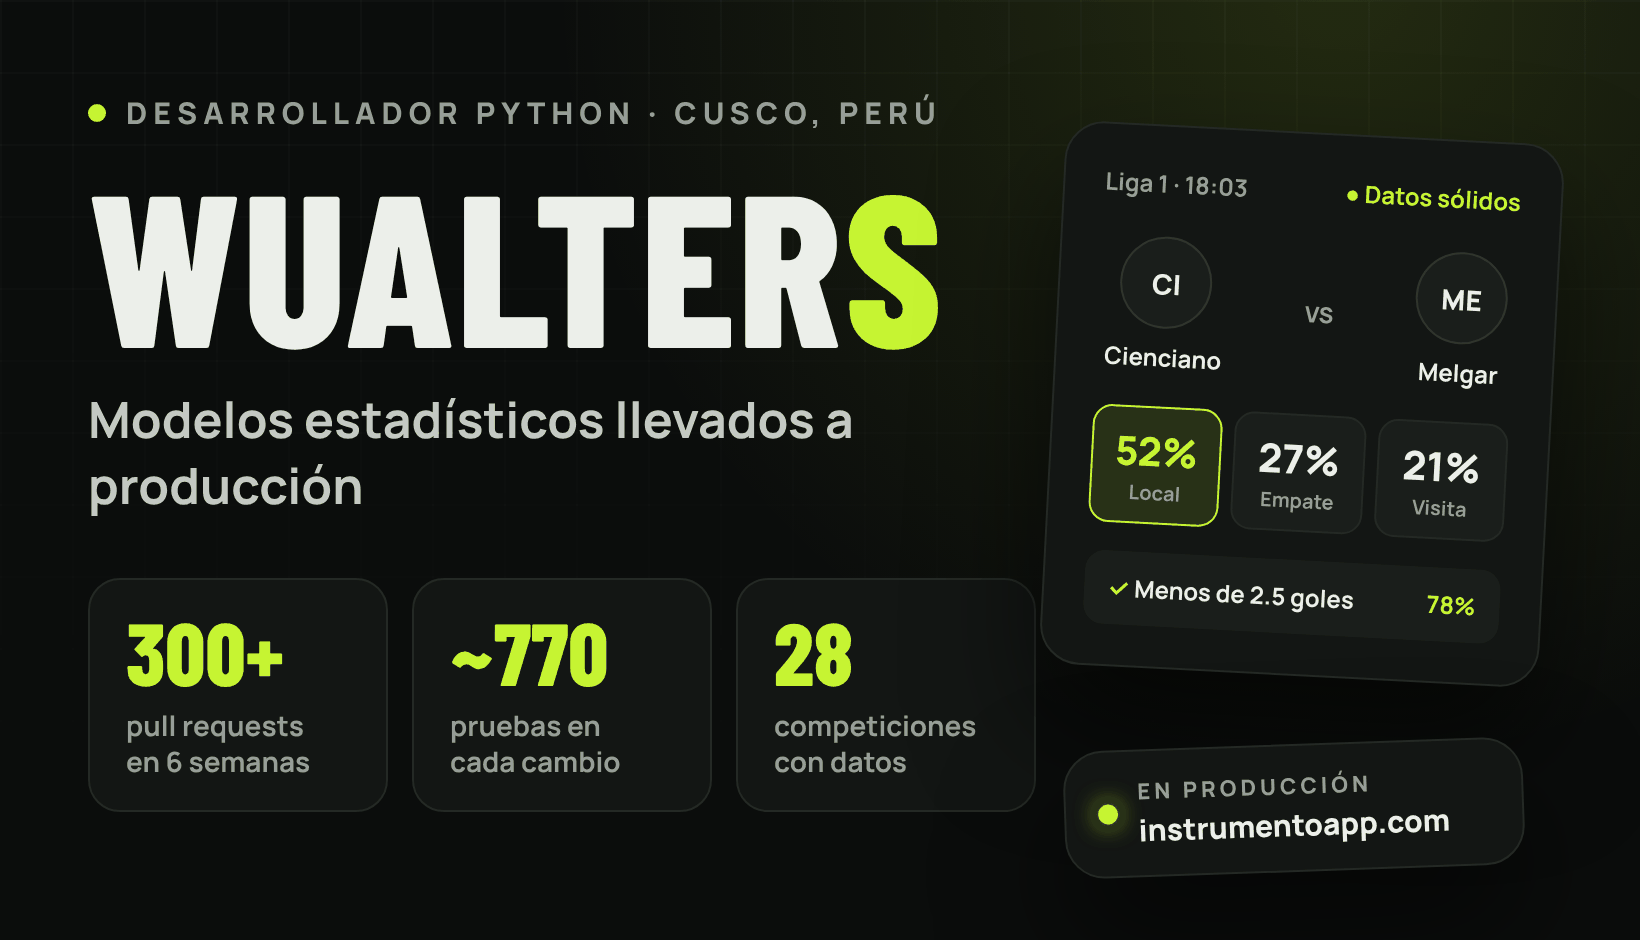
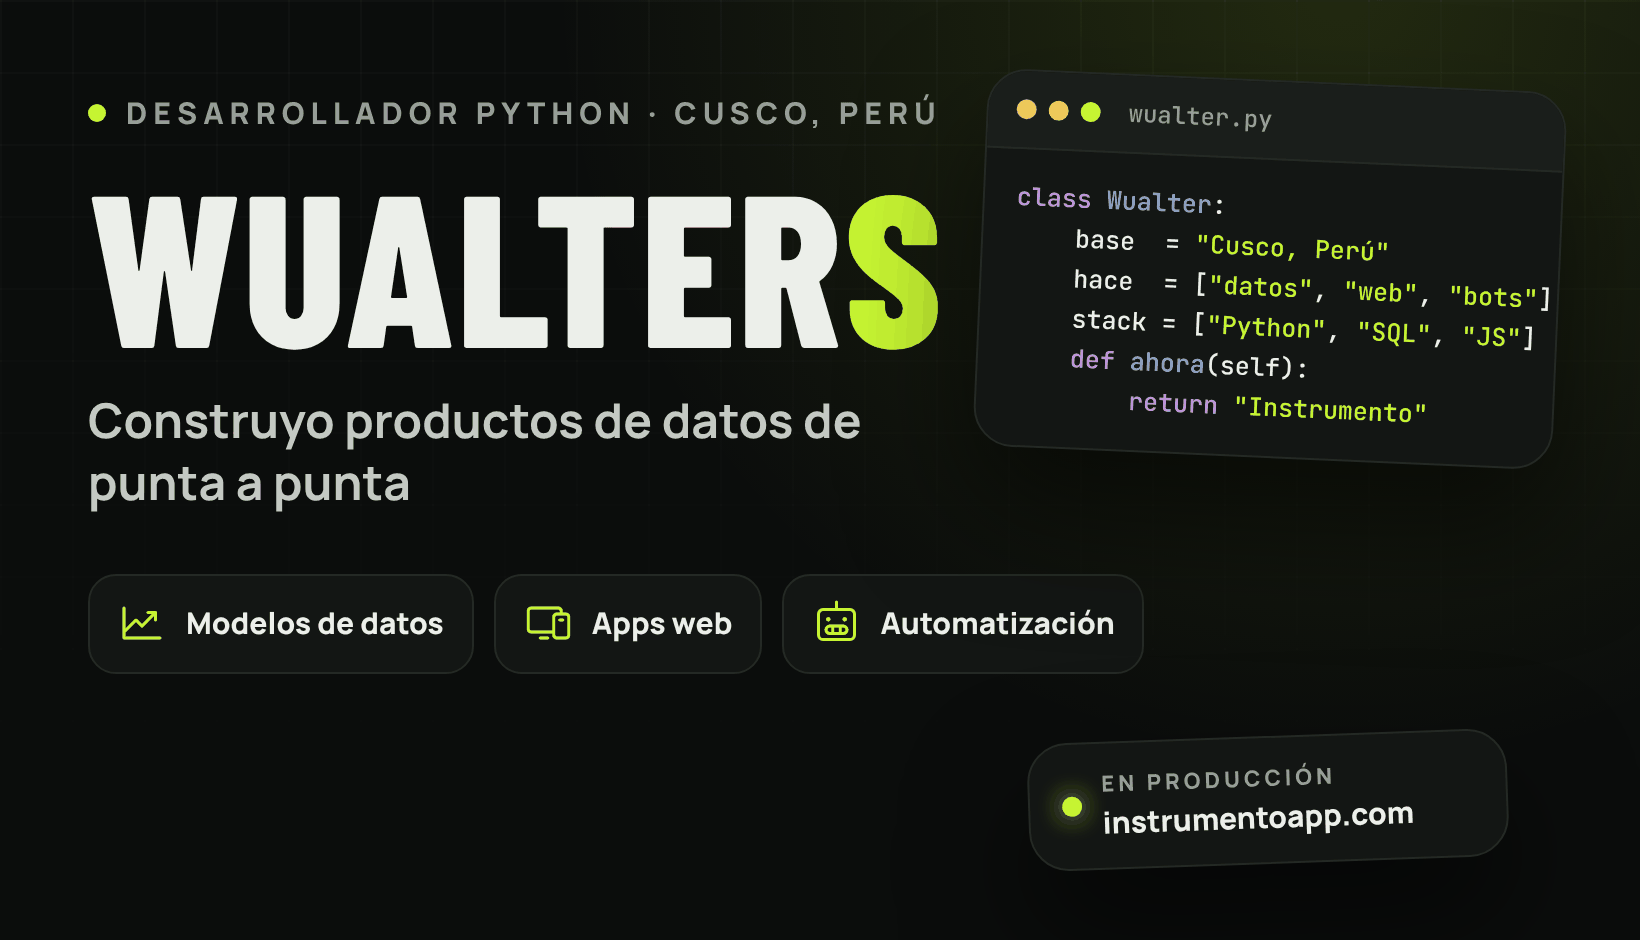
Perfil centrado en WualterS, no solo en Instrumento
Con 6 de 8 tarjetas sobre la app, el perfil parecía el de Instrumento.
Ahora la portada habla de quién es y qué hace (modelos de datos, apps
web y automatización), los proyectos van en tarjetas del mismo tamaño
para sumar los que vengan, el detalle de Instrumento queda en
desplegables y los retos técnicos pasan a «Lo que sé resolver», con
habilidades de los dos proyectos.

Claude-Session: https://claude.ai/code/session_01LgRPHN13sL2dVtw1KBWnaM

diff --git a/img/generar.py b/img/generar.py
@@ -6,14 +6,14 @@ importante y títulos en Barlow Condensed.
 Las tarjetas con texto se diseñan a 820 px de ancho y se guardan al doble: en
 un celular se ven a ~45% y la letra sigue legible.
 
-  img/banner.png      encabezado con los números de Instrumento
+  img/banner.png      encabezado: quién soy y qué hago
   img/hero.jpg        Instrumento en PC y en el celular
   img/funciones.png   qué hace la app (6 tarjetas)
-  img/retos.png       retos técnicos resueltos (problema → solución)
+  img/proyectos.png   mis proyectos (Instrumento y Umapyoi)
+  img/habilidades.png lo que sé resolver, cada habilidad con su prueba
   img/flujo.png       cómo funciona por dentro (línea de pasos)
   img/pantallas.jpg   seis pantallas de la app (3 x 2)
   img/stack.png       tecnologías con sus logos
-  img/umapyoi.png     tarjeta de Umapyoi AutoReroll
   img/btn-*.png       botones
 
 Recursos en img/recursos/: íconos Phosphor (MIT) y logos de Simple Icons (CC0).
@@ -103,40 +103,39 @@ def _pagina(contenido):
     return f'<div class=marco><div class=glow></div><div class=grid></div><div style="position:relative">{contenido}</div></div>'
 
 
+AREAS = [("chart-line-up", "Modelos de datos"), ("devices", "Apps web"), ("robot", "Automatización")]
+
+
 def banner_html():
-    stats = [("300+", "pull requests<br>en 6 semanas"), ("~770", "pruebas en<br>cada cambio"), ("28", "competiciones<br>con datos")]
-    barras = [("52%", "Local", True), ("27%", "Empate", False), ("21%", "Visita", False)]
+    areas = "".join(f'<div class=card style="padding:12px 14px;border-radius:14px;display:flex;align-items:center;gap:10px">'
+                    f'<i class="ph ph-{i}" style="font-size:24px;color:var(--hi)"></i>'
+                    f'<span style="font-size:15px;font-weight:800">{t}</span></div>' for i, t in AREAS)
+    k, s, f, c = ("color:#C792EA", "color:#C6F432", "color:#82AAFF", "color:#6B736C")
+    codigo = f"""<span style="{k}">class</span> <span style="{f}">Wualter</span>:
+    base  = <span style="{s}">"Cusco, Perú"</span>
+    hace  = [<span style="{s}">"datos"</span>, <span style="{s}">"web"</span>, <span style="{s}">"bots"</span>]
+    stack = [<span style="{s}">"Python"</span>, <span style="{s}">"SQL"</span>, <span style="{s}">"JS"</span>]
+    <span style="{k}">def</span> <span style="{f}">ahora</span>(self):
+        <span style="{k}">return</span> <span style="{s}">"Instrumento"</span>"""
     return f"""<div class=marco style="padding:46px 44px 44px;height:470px">
 <div class=glow style="right:-300px;top:-460px"></div><div class=grid></div>
 <div style="position:relative">
   <div class=kicker><i class=punto></i>DESARROLLADOR PYTHON · CUSCO, PERÚ</div>
   <div class=d style="font-size:108px;font-weight:800;letter-spacing:1px;line-height:.9;margin-top:16px">Wualter<span style="color:var(--hi)">S</span></div>
-  <div style="font-size:25px;font-weight:700;color:var(--tx2);margin-top:14px;max-width:470px;line-height:1.3">
-    Modelos estadísticos llevados a producción</div>
-  <div style="display:flex;gap:12px;margin-top:30px">
-    {"".join(f'<div class=card style="padding:14px 18px;border-radius:16px;min-width:150px"><div class=d style="font-size:44px;font-weight:800;line-height:1;color:var(--hi)">{n}</div><div style="font-size:14px;font-weight:700;color:var(--mut);margin-top:6px;line-height:1.3">{t}</div></div>' for n, t in stats)}
-  </div>
+  <div style="font-size:24px;font-weight:700;color:var(--tx2);margin-top:14px;max-width:440px;line-height:1.3">
+    Construyo productos de datos de punta a punta</div>
+  <div style="display:flex;gap:10px;margin-top:30px">{areas}</div>
 </div>
-<div class=card style="position:absolute;right:44px;top:66px;width:250px;padding:20px;transform:rotate(3deg);
+<div class=card style="position:absolute;right:40px;top:40px;width:290px;transform:rotate(2.5deg);overflow:hidden;
      box-shadow:0 30px 60px rgba(0,0,0,.55)">
-  <div style="display:flex;justify-content:space-between;font-size:12px;font-weight:700;color:var(--mut)">
-    <span>Liga 1 · 18:03</span><span style="color:var(--hi)">● Datos sólidos</span></div>
-  <div style="display:flex;justify-content:space-between;align-items:center;margin:18px 4px 16px">
-    <div style="text-align:center"><div style="width:46px;height:46px;border-radius:50%;background:var(--soft);
-      border:1.5px solid var(--line2);display:grid;place-items:center;font-weight:800;font-size:14px;margin:auto">CI</div>
-      <div style="font-size:12px;font-weight:700;margin-top:6px">Cienciano</div></div>
-    <div style="font-size:11px;font-weight:800;color:var(--mut)">VS</div>
-    <div style="text-align:center"><div style="width:46px;height:46px;border-radius:50%;background:var(--soft);
-      border:1.5px solid var(--line2);display:grid;place-items:center;font-weight:800;font-size:14px;margin:auto">ME</div>
-      <div style="font-size:12px;font-weight:700;margin-top:6px">Melgar</div></div>
-  </div>
-  <div style="display:grid;grid-template-columns:repeat(3,1fr);gap:6px">
-    {"".join(f'<div style="border-radius:10px;padding:8px 0;text-align:center;border:1.5px solid {"var(--hi)" if on else "var(--line)"};background:{"rgba(198,244,50,.12)" if on else "var(--soft)"}"><div style="font-size:20px;font-weight:800;color:{"var(--hi)" if on else "var(--tx)"}">{p}</div><div style="font-size:10px;font-weight:700;color:var(--mut)">{t}</div></div>' for p, t, on in barras)}
-  </div>
-  <div style="margin-top:14px;padding:10px 12px;border-radius:10px;background:var(--soft);font-size:12px;font-weight:700">
-    <span style="color:var(--hi)">✓</span> Menos de 2.5 goles <span style="float:right;color:var(--hi)">78%</span></div>
+  <div style="display:flex;align-items:center;gap:6px;padding:11px 14px;border-bottom:1.5px solid var(--line);background:var(--soft)">
+    <i style="width:10px;height:10px;border-radius:50%;background:#FF8076"></i>
+    <i style="width:10px;height:10px;border-radius:50%;background:#F2C94C"></i>
+    <i style="width:10px;height:10px;border-radius:50%;background:var(--hi)"></i>
+    <span style="font-family:Mono;font-size:12px;color:var(--mut);margin-left:8px">wualter.py</span></div>
+  <pre style="font-family:Mono;font-size:12.5px;line-height:1.6;padding:14px 16px;color:var(--tx);white-space:pre">{codigo}</pre>
 </div>
-<div class=card style="position:absolute;right:58px;top:372px;width:230px;padding:12px 16px;transform:rotate(-2deg);
+<div class=card style="position:absolute;right:66px;top:368px;width:240px;padding:12px 16px;transform:rotate(-2deg);
      box-shadow:0 30px 60px rgba(0,0,0,.55);display:flex;align-items:center;gap:10px">
   <i style="flex:none;width:10px;height:10px;border-radius:50%;background:var(--hi);box-shadow:0 0 12px var(--hi)"></i>
   <div><div style="font-size:11px;font-weight:800;letter-spacing:2px;color:var(--mut)">EN PRODUCCIÓN</div>
@@ -166,37 +165,32 @@ def funciones_html():
 <div style="display:grid;grid-template-columns:1fr 1fr;gap:14px;margin-top:26px">{tarjetas}</div>""")
 
 
-RETOS = [
-    ("Un servidor que se caía sin avisar",
-     "Reentrenar dentro del proceso web pasaba los 512 MB del servidor y la instancia moría sin error ni log.",
-     "Las tareas pesadas corren en un proceso hijo: al terminar, el sistema operativo recupera toda su memoria."),
-    ("Mercados que nunca se contradicen",
-     "«Gana Nice» y «Strasbourg o empate» llegaron a mostrarse a la vez: cada mercado se calculaba por su lado.",
-     "Todos salen de una sola matriz de marcadores, y cada ajuste reparte la matriz entera."),
-    ("Push sin dependencias frágiles",
-     "La librería habitual de Web Push no compilaba en todos los entornos.",
-     "Cifrado RFC 8291 y firma VAPID (RFC 8292) implementados a mano con cryptography."),
-    ("Un historial que no se puede maquillar",
-     "Recalcular partidos jugados con el modelo de hoy inflaría los aciertos: ya vio el resultado.",
-     "Cada pick se guarda antes del partido y no se toca más. Sin % hasta tener 20 picks."),
-    ("Un modelo que se mejora sin romperse",
-     "Cambiar el modelo a ojo puede empeorarlo sin que nadie lo note.",
-     "Cada semana los ajustes compiten en walk-forward con el modelo en uso; solo entra el que gana claro."),
+# ícono, habilidad, prueba concreta, proyecto
+HABILIDADES = [
+    ("chart-line-up", "Modelos estadísticos", "Dixon-Coles y Binomial Negativa. Todos los mercados salen de una sola matriz de marcadores, así nunca se contradicen.", "Instrumento"),
+    ("shield-check", "Validación honesta", "Backtest walk-forward: un ajuste entra solo si gana. Cada pick se guarda antes del partido y no se toca más.", "Instrumento"),
+    ("cpu", "Servidores estables", "Las tareas pesadas corren en un proceso hijo para no pasar el límite de memoria; el sistema la recupera entera.", "Instrumento"),
+    ("lock-key", "Criptografía aplicada", "Cifrado de Web Push (RFC 8291) y firma VAPID (RFC 8292) implementados a mano con cryptography.", "Instrumento"),
+    ("eye", "Visión por computadora", "OpenCV y Tesseract leen la pantalla del juego y detectan las cartas SSR objetivo.", "Umapyoi"),
+    ("heartbeat", "Automatización vigilada", "Tareas de fondo diarias que reportan su latido y avisan por Telegram si una se cae.", "Instrumento"),
 ]
 
 
-def retos_html():
-    filas = "".join(f"""<div class=card style="padding:24px 24px 22px;display:flex;gap:20px">
-  <div class=d style="font-size:54px;font-weight:800;color:var(--hi);line-height:.9;width:62px;flex:none">{n:02d}</div>
-  <div><div style="font-size:25px;font-weight:800">{t}</div>
-    <div style="display:flex;gap:12px;margin-top:12px;font-size:18px;line-height:1.45;color:var(--tx2)">
-      <span style="flex:none;font-size:12px;font-weight:800;letter-spacing:1.5px;color:var(--neg);padding-top:4px;width:84px">PROBLEMA</span><span>{p}</span></div>
-    <div style="display:flex;gap:12px;margin-top:8px;font-size:18px;line-height:1.45;color:var(--tx)">
-      <span style="flex:none;font-size:12px;font-weight:800;letter-spacing:1.5px;color:var(--hi);padding-top:4px;width:84px">SOLUCIÓN</span><span>{s}</span></div>
-  </div></div>""" for n, (t, p, s) in enumerate(RETOS, 1))
-    return _pagina(f"""<div class=kicker><i class=punto></i>INGENIERÍA</div>
-<div class=titulo>Retos técnicos <b>que resolví</b></div>
-<div style="display:flex;flex-direction:column;gap:14px;margin-top:26px">{filas}</div>""")
+def habilidades_html():
+    def etiqueta(p):
+        color, fondo = (("var(--hi)", "rgba(198,244,50,.10)") if p == "Instrumento"
+                        else ("var(--visita)", "rgba(142,156,240,.12)"))
+        return (f'<span style="font-size:11px;font-weight:800;letter-spacing:1.5px;color:{color};background:{fondo};'
+                f'padding:4px 9px;border-radius:999px">{p.upper()}</span>')
+    tarjetas = "".join(
+        f'<div class=card style="padding:22px"><div style="display:flex;justify-content:space-between;align-items:flex-start">'
+        f'<div class=ico><i class="ph ph-{i}"></i></div>{etiqueta(pr)}</div>'
+        f'<div style="font-size:23px;font-weight:800;margin-top:16px">{t}</div>'
+        f'<div style="font-size:17px;font-weight:600;color:var(--tx2);margin-top:6px;line-height:1.45">{d}</div></div>'
+        for i, t, d, pr in HABILIDADES)
+    return _pagina(f"""<div class=kicker><i class=punto></i>HABILIDADES CON PRUEBA</div>
+<div class=titulo>Lo que sé <b>resolver</b></div>
+<div style="display:grid;grid-template-columns:1fr 1fr;gap:14px;margin-top:26px">{tarjetas}</div>""")
 
 
 FLUJO = [
@@ -243,22 +237,46 @@ def stack_html():
 <div class=titulo>Mi <b>stack</b></div>{grupos}""")
 
 
-def umapyoi_html():
-    chips = "".join(f"<span class=chip>{_marca(m, 20) if m else ''}{t}</span>" for m, t in
-                    [("python", "Python"), ("opencv", "OpenCV"), (None, "Tesseract OCR"), (None, "Tkinter"),
-                     ("discord", "Webhooks de Discord")])
-    return _pagina(f"""<div class=kicker><i class=punto style="background:var(--visita)"></i>OTRO PROYECTO · AUTOMATIZACIÓN</div>
-<div class=card style="padding:26px;margin-top:18px;display:flex;gap:22px;align-items:flex-start">
-  <div style="width:96px;height:96px;border-radius:24px;display:grid;place-items:center;font-size:58px;flex:none;
-       background:rgba(142,156,240,.12);border:1.5px solid rgba(142,156,240,.35)">🏇</div>
-  <div><div class=d style="font-size:46px;font-weight:800;line-height:.95">Umapyoi AutoReroll</div>
-    <div style="font-size:18px;font-weight:600;color:var(--tx2);margin-top:10px;line-height:1.45">
-      Bot de escritorio para Umamusume Global: acepta términos, crea el perfil, reclama recompensas, tira el gacha
-      y detecta las cartas SSR objetivo con visión por computadora. Avisa por Discord, en español e inglés.</div>
-    <div style="display:flex;flex-wrap:wrap;gap:8px;margin-top:16px">{chips}</div>
-    <div style="margin-top:14px;font-size:14px;font-weight:700;color:var(--mut)"><i class="ph ph-lock-key"></i> Repositorio privado</div>
-  </div>
-</div>""")
+def _chips(lista, alto=18):
+    return "".join(f'<span class=chip style="font-size:15px;padding:7px 12px;gap:7px">'
+                   f'{_marca(m, alto) if m else ""}{t}</span>' for m, t in lista)
+
+
+def proyectos_html():
+    cifras = "".join(f'<div style="flex:1;background:var(--soft);border-radius:12px;padding:10px 12px">'
+                     f'<div class=d style="font-size:30px;font-weight:800;line-height:1;color:var(--hi)">{n}</div>'
+                     f'<div style="font-size:12px;font-weight:700;color:var(--mut);margin-top:4px;line-height:1.3">{t}</div></div>'
+                     for n, t in (("300+", "PRs en<br>6 semanas"), ("~770", "pruebas por<br>cambio"),
+                                  ("28", "ligas y<br>copas")))
+
+    def tarjeta(icono, color, fondo, tipo, nombre, texto, extra, chips, pie):
+        return f"""<div class=card style="padding:24px;display:flex;flex-direction:column">
+  <div style="display:flex;align-items:center;gap:14px">
+    <div style="width:62px;height:62px;border-radius:18px;display:grid;place-items:center;font-size:34px;flex:none;
+         color:{color};background:{fondo};border:1.5px solid {color}55">{icono}</div>
+    <div><div style="font-size:11px;font-weight:800;letter-spacing:2px;color:{color}">{tipo}</div>
+      <div class=d style="font-size:32px;font-weight:800;line-height:1;margin-top:4px">{nombre}</div></div></div>
+  <div style="font-size:16.5px;font-weight:600;color:var(--tx2);margin-top:16px;line-height:1.45">{texto}</div>
+  {extra}
+  <div style="display:flex;flex-wrap:wrap;gap:7px;margin-top:16px">{chips}</div>
+  <div style="margin-top:auto;padding-top:18px;font-size:14px;font-weight:700;color:var(--mut)">{pie}</div>
+</div>"""
+    instrumento = tarjeta(
+        '<i class="ph ph-soccer-ball"></i>', "#C6F432", "rgba(198,244,50,.10)", "DESTACADO · APP WEB", "Instrumento",
+        "Pronósticos de fútbol con un modelo estadístico real. Gratis, en PC y celular, y publica cuánto acierta.",
+        f'<div style="display:flex;gap:8px;margin-top:16px">{cifras}</div>',
+        _chips([("python", "Python"), ("flask", "Flask"), ("postgresql", "PostgreSQL"), ("scipy", "SciPy"), ("javascript", "JS")]),
+        '<span style="color:var(--hi)">●</span> En producción · instrumentoapp.com')
+    umapyoi = tarjeta(
+        "🏇", "#8E9CF0", "rgba(142,156,240,.12)", "AUTOMATIZACIÓN · ESCRITORIO", "Umapyoi AutoReroll",
+        "Bot que hace solo el reroll de Umamusume Global: crea el perfil, reclama recompensas, tira el gacha "
+        "y detecta las cartas SSR con visión por computadora. Avisa por Discord.",
+        "",
+        _chips([("python", "Python"), ("opencv", "OpenCV"), (None, "Tesseract OCR"), (None, "Tkinter"), ("discord", "Discord")]),
+        '<i class="ph ph-lock-key"></i> Repositorio privado')
+    return _pagina(f"""<div class=kicker><i class=punto></i>PORTAFOLIO</div>
+<div class=titulo>Mis <b>proyectos</b></div>
+<div style="display:grid;grid-template-columns:1fr 1fr;gap:14px;margin-top:26px">{instrumento}{umapyoi}</div>""")
 
 
 # nombre, texto, principal (lima) o no
@@ -341,8 +359,8 @@ def main():
         b = p.chromium.launch()
         botones(b, css)
         for nombre, html in (("banner.png", banner_html()), ("funciones.png", funciones_html()),
-                             ("retos.png", retos_html()), ("flujo.png", flujo_html()),
-                             ("stack.png", stack_html()), ("umapyoi.png", umapyoi_html())):
+                             ("habilidades.png", habilidades_html()), ("flujo.png", flujo_html()),
+                             ("stack.png", stack_html()), ("proyectos.png", proyectos_html())):
             _png(_foto(b, css, html, 820), nombre)
         # JPEG: son capturas, en PNG pesan tres veces más
         _foto(b, css, hero_html(), 1700, 1).save(IMG / "hero.jpg", quality=86, optimize=True, progressive=True)

diff --git a/README.md b/README.md
@@ -1,6 +1,12 @@
-<img src="img/banner.png" alt="WualterS · Desarrollador Python · Modelos estadísticos llevados a producción · Cusco, Perú" width="100%"/>
+<img src="img/banner.png" alt="WualterS · Desarrollador Python en Cusco, Perú · Modelos de datos, apps web y automatización" width="100%"/>
 
-Desarrollo productos de datos de punta a punta: el modelo estadístico, el servidor, la interfaz, las pruebas y el despliegue. Hoy construyo **Instrumento**, una app web gratis de pronósticos de fútbol que publica cuánto acierta, incluidos los picks que fallan.
+Construyo productos de datos de punta a punta: modelos estadísticos, apps web y automatizaciones, desde el servidor y la interfaz hasta las pruebas y el despliegue.
+
+<img src="img/proyectos.png" alt="Mis proyectos: Instrumento, app web de pronósticos de fútbol en producción, y Umapyoi AutoReroll, bot de escritorio con visión por computadora" width="100%"/>
+
+## Instrumento
+
+App web gratis de pronósticos de fútbol: calcula la probabilidad de cada resultado con un modelo estadístico, guarda cada pick antes del partido y publica cuánto acierta, incluidos los que fallan.
 
 <a href="https://instrumentoapp.com"><img src="img/hero.jpg" alt="Instrumento en PC y en el celular" width="100%"/></a>
 
@@ -10,30 +16,48 @@ Desarrollo productos de datos de punta a punta: el modelo estadístico, el servi
   <a href="https://instrumentoapp.com/como-funciona"><img src="img/btn-como.png" height="40" alt="Cómo funciona"/></a>
 </p>
 
-<img src="img/funciones.png" alt="Qué hace la app: Hoy, Análisis, En vivo, Combinar, Registro y Se mejora solo" width="100%"/>
-
 <a href="https://instrumentoapp.com/aciertos"><img src="https://raw.githubusercontent.com/WualterSDEV/WualterSDEV/datos/aciertos.svg" alt="Porcentaje de acierto de los picks de Instrumento, actualizado cada 6 horas" width="100%"/></a>
 
 <sub>Datos reales de la app, actualizados solos cada 6 horas.</sub>
+
+<details>
+<summary><b>Qué hace la app y sus pantallas</b></summary>
+
+<br>
+
+<img src="img/funciones.png" alt="Qué hace la app: Hoy, Análisis, En vivo, Combinar, Registro y Se mejora solo" width="100%"/>
 
 <img src="img/pantallas.jpg" alt="Pantallas de Instrumento: Hoy, Partidos, Análisis, En vivo, Combinar y Registro" width="100%"/>
 
 <sub>Interfaz real de la app, con datos de ejemplo.</sub>
 
-<img src="img/retos.png" alt="Retos técnicos que resolví: servidor que se caía, mercados coherentes, push propio, historial honesto y un modelo que se mejora sin romperse" width="100%"/>
+</details>
+
+<details>
+<summary><b>Cómo funciona por dentro</b></summary>
+
+<br>
 
 <img src="img/flujo.png" alt="Cómo funciona: datos, goles, estadísticas, validación, medición y mejora" width="100%"/>
 
-<img src="img/umapyoi.png" alt="Umapyoi AutoReroll: bot de escritorio con OpenCV y Tesseract OCR para Umamusume Global" width="100%"/>
+</details>
+
+<img src="img/habilidades.png" alt="Lo que sé resolver: modelos estadísticos, validación honesta, servidores estables, criptografía aplicada, visión por computadora y automatización vigilada" width="100%"/>
 
 <img src="img/stack.png" alt="Mi stack: Python, JavaScript, Flask, PostgreSQL, pandas, SciPy, OpenCV, pytest, Playwright, GitHub Actions, Render" width="100%"/>
+
+## Cómo trabajo
+
+- **Medir antes de creer.** Un modelo sin validación es una opinión, así que todo pasa por backtest antes de mostrarse.
+- **Honestidad con el usuario.** Muestro también lo que falla y digo lo que no se puede hacer.
+- **Cambios pequeños y verificables.** Pull requests chicos, con pruebas automáticas en cada uno.
 
 <details>
 <summary><b>English</b></summary>
 
 <br>
 
-**Python developer from Cusco, Peru.** I build data products end to end: the statistical model, the server, the UI, the tests and the deployment.
+**Python developer from Cusco, Peru.** I build data products end to end: statistical models, web apps and automation, from the server and the UI to the tests and the deployment.
 
 **Instrumento** ([instrumentoapp.com](https://instrumentoapp.com)) is a free football analytics web app. It prices hundreds of markets per match with statistical models (Dixon-Coles for goals, Negative Binomial for match stats, a Gaussian copula for accumulators), compares them with bookmaker odds, saves every pick before kick-off and publishes its track record, misses included. Started in late August 2026, with 300+ pull requests in six weeks. It retrains daily and runs a weekly self-improvement loop that only ships changes that beat the current model on unseen matches. Built with Flask, pandas, SciPy and PostgreSQL, deployed on Render as an installable PWA, with ~770 automated tests (pytest + Playwright) on every change. Source code is private.
 
